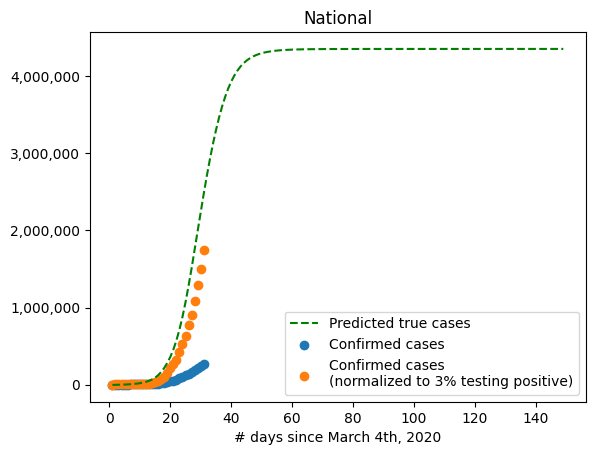
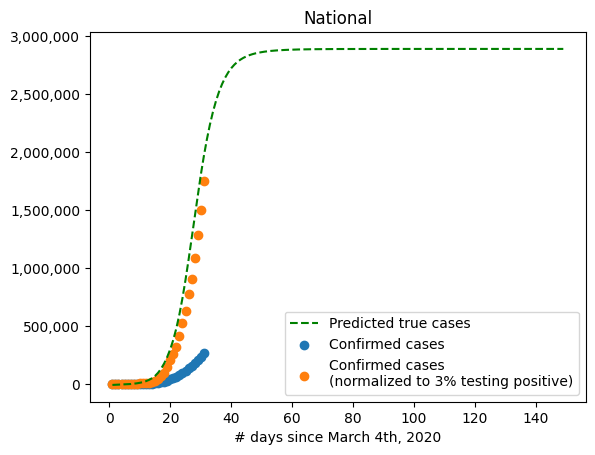
Remove NJ from all and how far along data

diff --git a/covidtracking.py b/covidtracking.py
@@ -17,6 +17,7 @@ def run():
     national_initial_date_as_int = national_initial_date.timestamp() / 86400
     days = np.arange(1, DAYS_TO_PLOT)
 
+    ny_results_over_time = []
     results_over_time = []
     normalized_national_cases_over_time = []
     for lookback in range(LOOKBACK, -1, -1):
@@ -37,7 +38,8 @@ def run():
                 if lookback == 0:
                     plot_state_graph(cases, dates, dates_as_int_array_normalized, days, normalized_cases, popt, state_name)
                 state_result = compute_state_result(dates_as_int, days, national_initial_date_as_int, popt)
-                state_results.append(state_result[:len(days)])
+                if state_name != "NJ":
+                    state_results.append(state_result[:len(days)])
             except Exception as e:
                 print(e)
 
@@ -51,6 +53,7 @@ def run():
             plot_national_graph(days, days_so_far, national_cases, normalized_national_cases, results)
         normalized_national_cases_over_time.append(normalized_national_cases.iloc[-1])
         results_over_time.append(results)
+
     lookback_days = np.arange(0, LOOKBACK + 1)
     predicted_peaks = list(map(lambda g: g[-1], results_over_time))
     plt.title("Predicted peak case count nationally")
